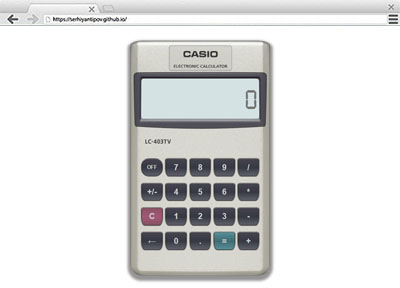
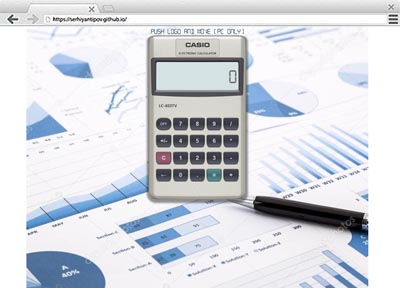
calc bg

diff --git a/site_08_calc/js/index.js b/site_08_calc/js/index.js
@@ -1,153 +1,150 @@
-let calc = document.querySelector('.calc');
+(function () {
+    let calc = document.querySelector('.calc');
+    const calcLogo = document.querySelector('.calc-logo');
+    const calcDisplay = document.querySelector('.input-calc');
+    const calcButtons = document.querySelectorAll('.calc-buttons button:not(.reset)');
+    const number = document.querySelectorAll('.number:not(.point)');
+    const mathSymbols = document.querySelectorAll('.math-symbols');
+    const point = document.querySelector('.point');
+    const equally = document.querySelector('.equally');
+    const calcReset = document.querySelector('.reset');
+    const calcErase = document.querySelector('.erase');
+    const calcPlusMinus = document.querySelector('.plus-minus');
+    const offButton = document.querySelector('.off');
+    let valueTemp = "";
+    let valPointData = 0;
+    let equallyData = 0;
 
-const calcLogo = document.querySelector('.calc-logo');
-const calcDisplay = document.querySelector('.input-calc');
-const calcButtons = document.querySelectorAll('.calc-buttons button:not(.reset)');
-const number = document.querySelectorAll('.number:not(.point)');
-const mathSymbols = document.querySelectorAll('.math-symbols');
-const point = document.querySelector('.point');
-const equally = document.querySelector('.equally');
-
-const calcReset = document.querySelector('.reset');
-const calcErase = document.querySelector('.erase');
-const calcPlusMinus = document.querySelector('.plus-minus');
-const offButton = document.querySelector('.off');
-
-let calcDisplayData;
-let valueTemp = "";
-let valPointData = 0;
-let equallyData = 0;
-
-// mathSymbols --------------------------------------
-mathSymbols.forEach(function (event) {
-    event.addEventListener('click', function (event) {
-        for (let i = 0; i < calcDisplay.value.length; i++) {
-            if (equallyData === 1) {
-                valueTemp = calcDisplay.value = +eval(valueTemp).toFixed(3) + event.target.innerText;
-                equallyData = 0;
-                valPointData = 0;
-            } else {
-                calcDisplay.value = +eval(valueTemp).toFixed(3) + event.target.innerText;
-                console.log(calcDisplay.value[i])
-                valPointData = 0;
+    // mathSymbols --------------------------------------
+    mathSymbols.forEach(function (event) {
+        event.addEventListener('click', function (event) {
+            for (let i = 0; i < calcDisplay.value.length; i++) {
+                if (equallyData === 1) {
+                    valueTemp = calcDisplay.value = +eval(valueTemp).toFixed(3) + event.target.innerText;
+                    equallyData = 0;
+                    valPointData = 0;
+                } else {
+                    calcDisplay.value = +eval(valueTemp).toFixed(3) + event.target.innerText;
+                    valPointData = 0;
+                };
             };
+        });
+    });
+
+
+    // Buttons ------------------------
+    calcButtons.forEach(function (event) {
+        event.addEventListener('click', function (event) {
+            if (calcDisplay.value === 'not allowed divide by "0"' ||
+                calcDisplay.value === 'a lot of symbols, max 19' ||
+                calcDisplay.value === 'very large number') {
+                calcDisplay.value = '';
+                calcDisplay.classList.remove('not-allowed');
+            };
+            if (event.target.innerText === '0' && calcDisplay.value === '0') {
+                calcDisplay.value = 0;
+            };
+            if (calcDisplay.value.length > 20) {
+                calcDisplay.value = 'a lot of symbols, max 19';
+                calcDisplay.classList.add('not-allowed');
+            };
+        });
+    });
+
+    // number -----------------------
+    number.forEach(function (event) {
+        event.addEventListener('click', function (event) {
+            if (equallyData === 1) {
+                calcDisplay.value = '';
+                equallyData = 0;
+            };
+            if (calcDisplay.value.length <= 1 && event.target.innerText === '0' && calcDisplay.value === '0') {
+                calcDisplay.value = 0;
+            } else {
+                valueTemp = calcDisplay.value += event.target.innerText;
+                if (calcDisplay.value === '' && event.target.innerText != '.') {
+                    calcDisplay.value = event.target.innerText;
+                };
+            };
+        });
+    });
+
+    // point -----------------------------------
+    point.addEventListener('click', function () {
+        console.log(valPointData)
+        if (valPointData == 0 && calcDisplay.value != '') {
+            calcDisplay.value += event.target.innerText;
+            valPointData = 1;
+            console.log(valPointData)
         };
     });
-});
 
+    // calcEras -----------------------------------
+    calcErase.addEventListener('click', function () {
+        if (calcDisplay.value.length > 1) {
+            valueTemp = calcDisplay.value = calcDisplay.value.slice(0, -1);
+        };
+    });
 
-// Buttons ------------------------
-calcButtons.forEach(function (event) {
-    event.addEventListener('click', function (event) {
-        if (calcDisplay.value === 'not allowed divide by "0"' ||
-            calcDisplay.value === 'a lot of symbols, max 19' ||
-            calcDisplay.value === 'very large number') {
-            calcDisplay.value = '';
-            calcDisplay.classList.remove('not-allowed');
+    // plus/minus -----------------------------------
+    calcPlusMinus.addEventListener('click', function () {
+        if (Number(calcDisplay.value) < 0) {
+            valueTemp = calcDisplay.value = calcDisplay.value.substr(1);
+        } else if (Number(calcDisplay.value) > 0) {
+            valueTemp = calcDisplay.value = calcDisplay.value - calcDisplay.value * 2;
         };
-        if (event.target.innerText === '0' && calcDisplay.value === '0') {
-            calcDisplay.value = 0;
-        };
-        if (calcDisplay.value.length > 20) {
-            calcDisplay.value = 'a lot of symbols, max 19';
+    });
+
+    // off -------------------------------------------
+    offButton.addEventListener('click', function () {
+        window.close();
+    });
+
+    // reset --------------------------------------
+    calcReset.addEventListener('click', function () {
+        calcDisplay.value = '';
+        calcDisplay.classList.remove('not-allowed');
+        symbols = 1;
+        valueTemp = '';
+        valPointData = 0;
+    });
+
+    // equally ---------------------------------------
+    equally.addEventListener('click', function () {
+        calcDisplay.value = +eval(calcDisplay.value).toFixed(5);
+        if (+eval(calcDisplay.value).toFixed(5) > 999999999 && calcDisplay.value != Infinity) {
+            calcDisplay.value = 'very large number';
             calcDisplay.classList.add('not-allowed');
         };
-    });
-});
-
-// number -----------------------
-number.forEach(function (event) {
-    event.addEventListener('click', function (event) {
-        if (equallyData === 1) {
-            calcDisplay.value = '';
-            equallyData = 0;
+        if (calcDisplay.value == Number.POSITIVE_INFINITY ||
+            calcDisplay.value == Infinity ||
+            calcDisplay.value == Number.NEGATIVE_INFINITY ||
+            calcDisplay.value == -Infinity) {
+            calcDisplay.value = 'not allowed divide by "0"';
+            calcDisplay.classList.add('not-allowed');
         };
-        if (calcDisplay.value.length <= 1 && event.target.innerText === '0' && calcDisplay.value === '0') {
-            calcDisplay.value = 0;
-        } else {
-            valueTemp = calcDisplay.value += event.target.innerText;
-            if (calcDisplay.value === '' && event.target.innerText != '.') {
-                calcDisplay.value = event.target.innerText;
-            };
-        };
+        equallyData = 1;
+        valPointData = 0;
     });
-});
 
-// point -----------------------------------
-point.addEventListener('click', function () {
-    console.log(valPointData)
-    if (valPointData == 0 && calcDisplay.value != '') {
-        calcDisplay.value += event.target.innerText;
-        valPointData = 1;
-        console.log(valPointData)
-    };
-});
+    // calcMove ---------------------------------------
+    calcMove();
 
-// calcEras -----------------------------------
-calcErase.addEventListener('click', function () {
-    if (calcDisplay.value.length > 1) {
-        valueTemp = calcDisplay.value = calcDisplay.value.slice(0, -1);
-    };
-});
-
-// plus/minus -----------------------------------
-calcPlusMinus.addEventListener('click', function () {
-    if (Number(calcDisplay.value) < 0) {
-        valueTemp = calcDisplay.value = calcDisplay.value.substr(1);
-    } else if (Number(calcDisplay.value) > 0) {
-        valueTemp = calcDisplay.value = calcDisplay.value - calcDisplay.value * 2;
-    };
-});
-
-// off -------------------------------------------
-offButton.addEventListener('click', function () {
-    window.close();
-});
-
-// reset --------------------------------------
-calcReset.addEventListener('click', function () {
-    calcDisplay.value = '';
-    calcDisplay.classList.remove('not-allowed');
-    symbols = 1;
-    valueTemp = '';
-    valPointData = 0;
-});
-
-// equally ---------------------------------------
-equally.addEventListener('click', function () {
-    calcDisplay.value = +eval(calcDisplay.value).toFixed(5);
-    if (+eval(calcDisplay.value).toFixed(5) > 999999999 && calcDisplay.value != Infinity) {
-        calcDisplay.value = 'very large number';
-        calcDisplay.classList.add('not-allowed');
-    };
-    if (calcDisplay.value == Number.POSITIVE_INFINITY ||
-        calcDisplay.value == Infinity ||
-        calcDisplay.value == Number.NEGATIVE_INFINITY ||
-        calcDisplay.value == -Infinity) {
-        calcDisplay.value = 'not allowed divide by "0"';
-        calcDisplay.classList.add('not-allowed');
-    };
-    equallyData = 1;
-    valPointData = 0;
-});
-
-// calcMove ---------------------------------------
-calcMove();
-
-function calcMove() {
-    calcLogo.onmousedown = function (event) {
-        if (event.buttons === 1) {
-            calc.style.position = 'fixed';
-            calc.style.left = event.pageX - calc.offsetWidth / 2 + 'px';
-            calc.style.top = event.pageY - 60 + 'px';
-
-            document.onmousemove = function (event) {
+    function calcMove() {
+        calcLogo.onmousedown = function (event) {
+            if (event.buttons === 1) {
+                calc.style.position = 'fixed';
                 calc.style.left = event.pageX - calc.offsetWidth / 2 + 'px';
-                calc.style.top = event.pageY - 60 + 'px';
+                calc.style.top = event.pageY - calcLogo.offsetHeight / 2 + 'px';
+
+                document.onmousemove = function (event) {
+                    calc.style.left = event.pageX - calc.offsetWidth / 2 + 'px';
+                    calc.style.top = event.pageY - calcLogo.offsetHeight / 2 + 'px';
+                };
             };
         };
+        calcLogo.onmouseup = function () {
+            document.onmousemove = false;
+        };
     };
-    calcLogo.onmouseup = function () {
-        document.onmousemove = false;
-    };
-};
+})();

diff --git a/site_08_calc/index.html b/site_08_calc/index.html
@@ -11,33 +11,35 @@
 </head>
 
 <body>
-    <p class="instruction">Push logo and move (PC only)</p>
-    <div class="calc">
-        <div class="calc-logo"></div>
-        <div class="wrapper-input">
-            <input class="input-calc" type="text" readonly placeholder="0">
-        </div>
-        <div class="calc-buttons">
-            <button class="service-buttons off">off</button>
-            <button class="number">7</button>
-            <button class="number">8</button>
-            <button class="number">9</button>
-            <button class="math-symbols divide">/</button>
-            <button class="service-buttons plus-minus">+/-</button>
-            <button class="number">4</button>
-            <button class="number">5</button>
-            <button class="number">6</button>
-            <button class="math-symbols miltiply">*</button>
-            <button class="service-buttons reset">c</button>
-            <button class="number">1</button>
-            <button class="number">2</button>
-            <button class="number">3</button>
-            <button class="math-symbols minus">-</button>
-            <button class="service-buttons erase">&#8592;</button>
-            <button class="number">0</button>
-            <button class="number point">.</button>
-            <button class="service-buttons equally">=</button>
-            <button class="math-symbols plus">+</button>
+    <div class="wrapper">
+        <p class="instruction">Push logo and move (PC only)</p>
+        <div class="calc">
+            <div class="calc-logo"></div>
+            <div class="wrapper-input">
+                <input class="input-calc" type="text" readonly placeholder="0">
+            </div>
+            <div class="calc-buttons">
+                <button class="service-buttons off">off</button>
+                <button class="number">7</button>
+                <button class="number">8</button>
+                <button class="number">9</button>
+                <button class="math-symbols divide">/</button>
+                <button class="service-buttons plus-minus">+/-</button>
+                <button class="number">4</button>
+                <button class="number">5</button>
+                <button class="number">6</button>
+                <button class="math-symbols miltiply">*</button>
+                <button class="service-buttons reset">c</button>
+                <button class="number">1</button>
+                <button class="number">2</button>
+                <button class="number">3</button>
+                <button class="math-symbols minus">-</button>
+                <button class="service-buttons erase">&#8592;</button>
+                <button class="number">0</button>
+                <button class="number point">.</button>
+                <button class="service-buttons equally">=</button>
+                <button class="math-symbols plus">+</button>
+            </div>
         </div>
 
     </div>

diff --git a/site_08_calc/css/index.css b/site_08_calc/css/index.css
@@ -4,18 +4,28 @@
 
 }
 
+.wrapper {
+    max-width: 980px;
+    height: 100vh;
+    min-height: 480px;
+    padding-bottom: 30px;
+    margin: 0 auto;
+    background: url(../img/background.jpg) no-repeat;
+    background-position: center;
+    background-size: cover;
+}
+
 .instruction {
     font-family: SFDigitalReadout-Heavy, sans-serif;
     font-size: 26px;
     text-align: center;
-    color: #26231de6;
+    color: #405e80;
 }
 
 .calc {
     width: 280px;
     height: 470px;
     margin: 0 auto;
-    margin-top: 2%;
     background: url(../img/calc_bg.png) no-repeat;
     background-size: cover;
     background-position: top -2px center;
